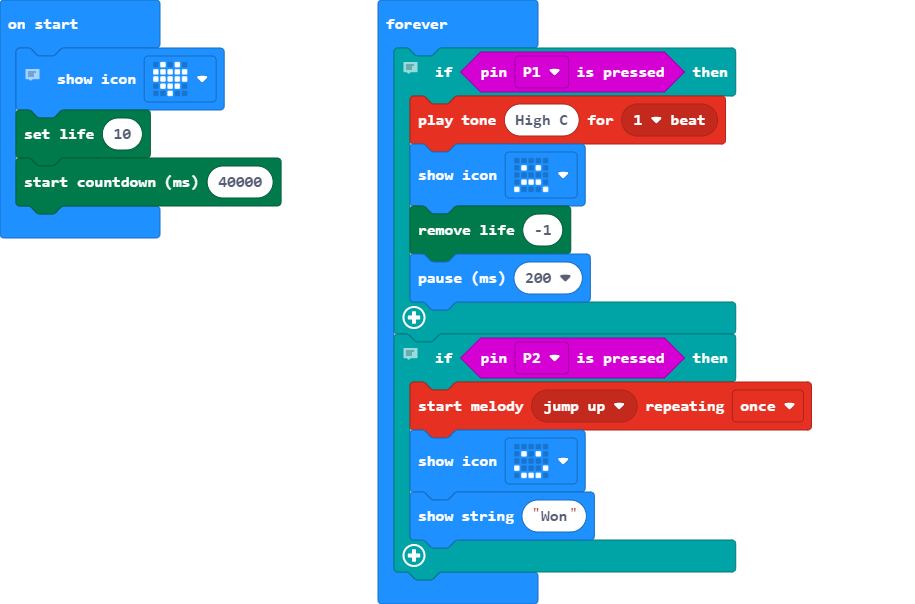
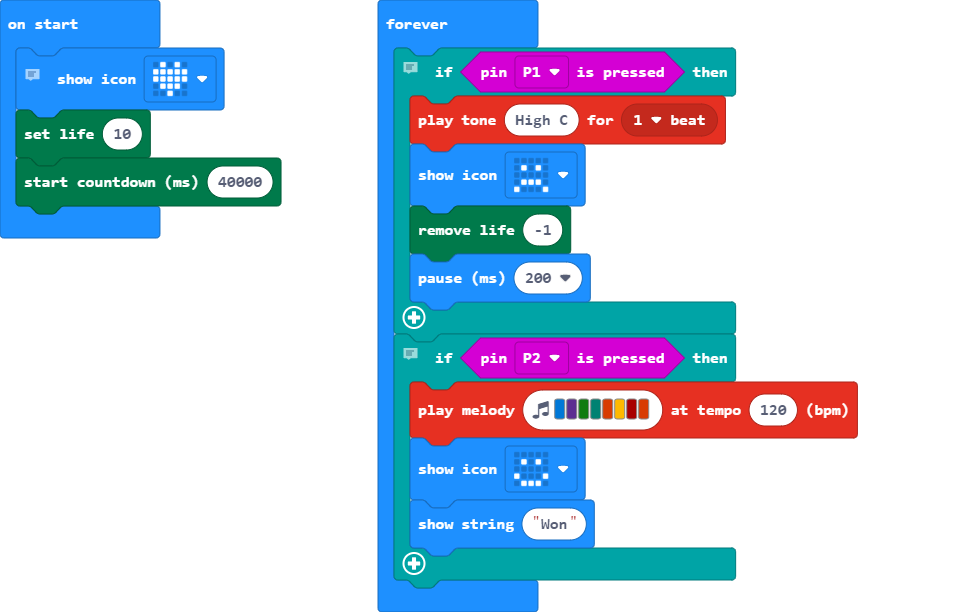
updated with play melody

Changed region(s): [[0.3672, 0.0, 0.918, 1.0], [0.0, 0.0, 0.306, 0.4172], [0.0, 0.0298, 0.0918, 0.0596]]

diff --git a/main.ts b/main.ts
@@ -12,7 +12,7 @@ basic.forever(function () {
     }
     // Test if you touch the last coffee cup. Then you win.
     if (input.pinIsPressed(TouchPin.P2)) {
-        music.startMelody(music.builtInMelody(Melodies.JumpUp), MelodyOptions.Once)
+        music.playMelody("E D G F B A C5 B ", 120)
         basic.showIcon(IconNames.Happy)
         basic.showString("Won")
     }
